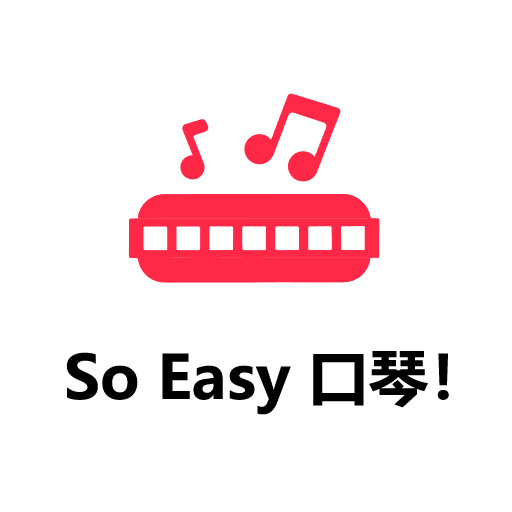
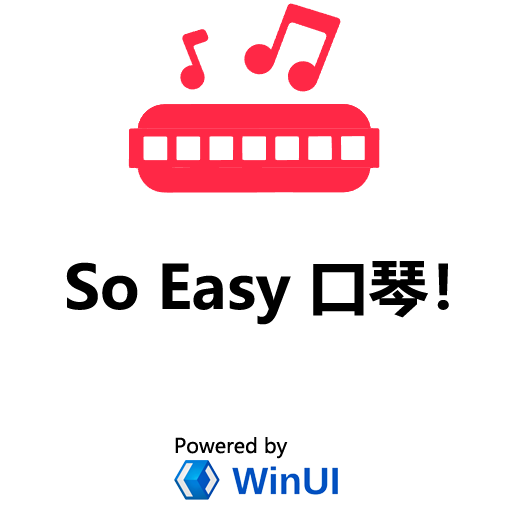
修改EditNoteDialog

diff --git a/Views/EditNoteDialog.xaml b/Views/EditNoteDialog.xaml
@@ -12,57 +12,152 @@
     SecondaryButtonText="取消"
     DefaultButton="Primary">
 
-    <StackPanel>
-        <!--音高-->
-        <ComboBox Header="音高：" 
-                  PlaceholderText="选择音高..."
-                  SelectedItem="{x:Bind ViewModel.Pitch, Mode=TwoWay}" 
-                  HorizontalAlignment="Stretch">
-            <x:String>1</x:String>
-            <x:String>2</x:String>
-            <x:String>3</x:String>
-            <x:String>4</x:String>
-            <x:String>5</x:String>
-            <x:String>6</x:String>
-            <x:String>7</x:String>
-            <!-- 这里可以添加低音、高音等选项 -->
-        </ComboBox>
+    <ScrollViewer MaxHeight="800" VerticalScrollBarVisibility="Auto">
+        <StackPanel Width="500">
+            <!--音符-->
+            <ComboBox Header="音符：" 
+                      PlaceholderText="选择音符..."
+                      SelectedValuePath="Tag"
+                      SelectedValue="{x:Bind ViewModel.Pitch, Mode=TwoWay}"
+                      HorizontalAlignment="Stretch">
+                <ComboBoxItem Content="中音音符１" Tag="1"/>
+                <ComboBoxItem Content="中音音符２" Tag="2"/>
+                <ComboBoxItem Content="中音音符３" Tag="3"/>
+                <ComboBoxItem Content="中音音符４" Tag="4"/>
+                <ComboBoxItem Content="中音音符５" Tag="5"/>
+                <ComboBoxItem Content="中音音符６" Tag="6"/>
+                <ComboBoxItem Content="中音音符７" Tag="7"/>
 
-        <!--时值-->
-        <ComboBox Header="时值：" 
-                  PlaceholderText="选择时值..."
-                  SelectedValuePath="Tag" 
-                  SelectedValue="{x:Bind ViewModel.Duration, Mode=TwoWay}" 
-                  HorizontalAlignment="Stretch" 
-                  Margin="0,10,0,0">
-            <ComboBoxItem Content="全音符 (4)" Tag="4"/>
-            <ComboBoxItem Content="二分音符 (2)" Tag="2"/>
-            <ComboBoxItem Content="四分音符 (1)" Tag="1"/>
-            <ComboBoxItem Content="八分音符 (0.5)" Tag="0.5"/>
-            <ComboBoxItem Content="十六分音符 (0.25)" Tag="0.25"/>
-            <ComboBoxItem Content="三十二分音符 (0.125)" Tag="0.125"/>
-        </ComboBox>
+                <ComboBoxItem Content="低音音符１" Tag="-1"/>
+                <ComboBoxItem Content="低音音符２" Tag="-2"/>
+                <ComboBoxItem Content="低音音符３" Tag="-3"/>
+                <ComboBoxItem Content="低音音符４" Tag="-4"/>
+                <ComboBoxItem Content="低音音符５" Tag="-5"/>
+                <ComboBoxItem Content="低音音符６" Tag="-6"/>
+                <ComboBoxItem Content="低音音符７" Tag="-7"/>
 
-        <!--附点-->
-        <NumberBox Header="附点数量："
-                   PlaceholderText="输入附点数量..."
-                   Value="{x:Bind ViewModel.Dots, Mode=TwoWay}" 
-                   Minimum="0" 
-                   Maximum="3" 
-                   Margin="0,10,0,0"/>
+                <ComboBoxItem Content="倍低音符１" Tag="--1"/>
+                <ComboBoxItem Content="倍低音符２" Tag="--2"/>
+                <ComboBoxItem Content="倍低音符３" Tag="--3"/>
+                <ComboBoxItem Content="倍低音符４" Tag="--4"/>
+                <ComboBoxItem Content="倍低音符５" Tag="--5"/>
+                <ComboBoxItem Content="倍低音符６" Tag="--6"/>
+                <ComboBoxItem Content="倍低音符７" Tag="--7"/>
 
-        <!--歌词-->
-        <TextBox Header="歌词：" 
-                 PlaceholderText="输入歌词..."
-                 Text="{x:Bind ViewModel.Lyrics, Mode=TwoWay}" 
-                 Margin="0,10,0,0"/>
+                <ComboBoxItem Content="超低音符１" Tag="---1"/>
+                <ComboBoxItem Content="超低音符２" Tag="---2"/>
+                <ComboBoxItem Content="超低音符３" Tag="---3"/>
+                <ComboBoxItem Content="超低音符４" Tag="---4"/>
+                <ComboBoxItem Content="超低音符５" Tag="---5"/>
+                <ComboBoxItem Content="超低音符６" Tag="---6"/>
+                <ComboBoxItem Content="超低音符７" Tag="---7"/>
 
-        <!--所属组合-->
-        <ComboBox Header="所属组合"
-                  PlaceholderText="选择组合..."
-                  ItemsSource="{x:Bind ViewModel.Beams, Mode=OneWay}"
-                  SelectedItem="{x:Bind ViewModel.SelectedBeam, Mode=TwoWay}"
-                  HorizontalAlignment="Stretch"
-                  Margin="0,10,0,0"/>
-    </StackPanel>
+                <ComboBoxItem Content="高音音符１" Tag="+1"/>
+                <ComboBoxItem Content="高音音符２" Tag="+2"/>
+                <ComboBoxItem Content="高音音符３" Tag="+3"/>
+                <ComboBoxItem Content="高音音符４" Tag="+4"/>
+                <ComboBoxItem Content="高音音符５" Tag="+5"/>
+                <ComboBoxItem Content="高音音符６" Tag="+6"/>
+                <ComboBoxItem Content="高音音符７" Tag="+7"/>
+
+                <ComboBoxItem Content="倍高音符１" Tag="++1"/>
+                <ComboBoxItem Content="倍高音符２" Tag="++2"/>
+                <ComboBoxItem Content="倍高音符３" Tag="++3"/>
+                <ComboBoxItem Content="倍高音符４" Tag="++4"/>
+                <ComboBoxItem Content="倍高音符５" Tag="++5"/>
+                <ComboBoxItem Content="倍高音符６" Tag="++6"/>
+                <ComboBoxItem Content="倍高音符７" Tag="++7"/>
+
+                <ComboBoxItem Content="超高音符１" Tag="+++1"/>
+                <ComboBoxItem Content="超高音符２" Tag="+++2"/>
+                <ComboBoxItem Content="超高音符３" Tag="+++3"/>
+                <ComboBoxItem Content="超高音符４" Tag="+++4"/>
+                <ComboBoxItem Content="超高音符５" Tag="+++5"/>
+                <ComboBoxItem Content="超高音符６" Tag="+++6"/>
+                <ComboBoxItem Content="超高音符７" Tag="+++7"/>
+
+                <ComboBoxItem Content="休止符０" Tag="0"/>
+
+                <ComboBoxItem Content="噪音符Ｘ" Tag="X"/>
+
+                <ComboBoxItem Content="增时符－" Tag="-"/>
+            </ComboBox>
+
+            <!--时值-->
+            <ComboBox Header="时值：" 
+                      PlaceholderText="选择音符时值..."
+                      SelectedValuePath="Tag" 
+                      SelectedValue="{x:Bind ViewModel.Duration, Mode=TwoWay}" 
+                      HorizontalAlignment="Stretch" 
+                      Margin="0,10,0,0">
+                <ComboBoxItem Content="全音符" Tag="4"/>
+                <ComboBoxItem Content="二分音符" Tag="2"/>
+                <ComboBoxItem Content="四分音符" Tag="1"/>
+                <ComboBoxItem Content="八分音符" Tag="0.5"/>
+                <ComboBoxItem Content="十六分音符" Tag="0.25"/>
+                <ComboBoxItem Content="三十二分音符" Tag="0.125"/>
+            </ComboBox>
+
+            <!--附点-->
+            <NumberBox Header="附点数量："
+                       PlaceholderText="输入附点数量..."
+                       Value="{x:Bind ViewModel.Dots, Mode=TwoWay}" 
+                       Minimum="0" 
+                       Maximum="3" 
+                       Margin="0,10,0,0"/>
+
+            <!--连音线标志-->
+            <ComboBox Header="连音线标志：" 
+                      PlaceholderText="选择连音线标志..."
+                      SelectedValuePath="Tag" 
+                      SelectedValue="{x:Bind ViewModel.Slur, Mode=TwoWay}" 
+                      HorizontalAlignment="Stretch" 
+                      Margin="0,10,0,0">
+                <ComboBoxItem Content="无连音线" Tag="" IsSelected="True"/>
+                <ComboBoxItem Content="开始连音线" Tag="1"/>
+                <ComboBoxItem Content="结束连音线" Tag="0"/>
+            </ComboBox>
+
+            <!--延长号标志-->
+            <ComboBox Header="延长号标志：" 
+                      PlaceholderText="选择延长号标志..."
+                      SelectedValuePath="Tag" 
+                      SelectedValue="{x:Bind ViewModel.Fermata, Mode=TwoWay}" 
+                      HorizontalAlignment="Stretch" 
+                      Margin="0,10,0,0">
+                <ComboBoxItem Content="有延长号" Tag="1"/>
+                <ComboBoxItem Content="无延长号" Tag="0"/>
+            </ComboBox>
+
+            <!--演奏方式-->
+            <ComboBox Header="演奏方式：" 
+                      PlaceholderText="选择演奏方式..."
+                      SelectedItem="{x:Bind ViewModel.Articulation, Mode=TwoWay}"
+                      HorizontalAlignment="Stretch" 
+                      Margin="0,10,0,0">
+                <x:String>倚音</x:String>
+                <x:String>颤音</x:String>
+                <x:String>波音</x:String>
+                <x:String>回音</x:String>
+                <x:String>滑音</x:String>
+                <x:String>琶音</x:String>
+                <x:String>震音</x:String>
+            </ComboBox>
+
+            <!--歌词-->
+            <TextBox Header="歌词：" 
+                     PlaceholderText="输入歌词..."
+                     Text="{x:Bind ViewModel.Lyrics, Mode=TwoWay}" 
+                     Margin="0,10,0,0"/>
+
+            <!--所属组合-->
+            <ComboBox Header="音符组合"
+                      PlaceholderText="选择音符组合..."
+                      ItemsSource="{x:Bind ViewModel.Beams, Mode=OneWay}"
+                      SelectedItem="{x:Bind ViewModel.SelectedBeam, Mode=TwoWay}"
+                      DisplayMemberPath="Name"
+                      HorizontalAlignment="Stretch"
+                      Margin="0,10,0,0"/>
+        </StackPanel>
+    </ScrollViewer>
 </ContentDialog>

diff --git a/Views/EditScorePage.xaml b/Views/EditScorePage.xaml
@@ -226,7 +226,7 @@
                         <TextBox x:Name="Composer"
                                  Text="{x:Bind ViewModel.Composer, Mode=TwoWay, UpdateSourceTrigger=PropertyChanged}"
                                  PlaceholderText="输入作曲人..."
-                                 Header="作曲人："
+                                 Header="作曲："
                                  MaxLength="50"
                                  HorizontalAlignment="Stretch"/>
 
@@ -243,7 +243,7 @@
                         <TextBox x:Name="Lyricist"
                                  Text="{x:Bind ViewModel.Lyricist, Mode=TwoWay, UpdateSourceTrigger=PropertyChanged}"
                                  PlaceholderText="输入作词人..."
-                                 Header="作词人："
+                                 Header="作词："
                                  MaxLength="50"
                                  HorizontalAlignment="Stretch"/>
 

diff --git a/ViewModels/EditNoteViewModel.cs b/ViewModels/EditNoteViewModel.cs
@@ -19,47 +19,50 @@ namespace SEH.ViewModels
         private string _id = Guid.NewGuid().ToString();
 
         /// <summary>
-        /// 音高
+        /// 音符
         /// </summary>
+        [Required(ErrorMessage = "音符不能为空！")]
         [ObservableProperty]
         private string _pitch = "1"; // 默认中音1
 
         /// <summary>
         /// 时值
         /// </summary>
-        [ObservableProperty]
+        [Required(ErrorMessage = "时值不能为空！")]
         [Range(0.125, 4, ErrorMessage = "时值必须在0.125到4之间")]
-        private float _duration = 1; // 默认四分音符
+        [ObservableProperty]
+        private string _duration = "1"; // 默认四分音符
 
         /// <summary>
         /// 附点数量
         /// </summary>
+        [Required(ErrorMessage = "附点数量不能为空！")]
         [ObservableProperty]
-        private int _dots = 0;
+        private string _dots = "0";
 
         /// <summary>
         /// 连音线标记，如：1-开始，0-表示结束
         /// </summary>
         [ObservableProperty]
-        private int? _slur = null;
+        private string _slur = "";
 
         /// <summary>
         /// 演奏方法
         /// </summary>
         [ObservableProperty]
-        private string? _articulation = null;
+        private string _articulation = "";
 
         /// <summary>
         /// 延长号标记，如：1-有，0-无
         /// </summary>
         [ObservableProperty]
-        private int _fermata = 0;
+        private string _fermata = "0";
 
         /// <summary>
         /// 歌词
         /// </summary>
         [ObservableProperty]
-        private string? _lyrics = null;
+        private string _lyrics = "";
 
         /// <summary>
         /// 组合集合
@@ -102,11 +105,11 @@ namespace SEH.ViewModels
             {
                 Id = note.Id;
                 Pitch = note.Pitch;
-                Duration = note.Duration;
-                Dots = note.Dots;
-                Slur = note.Slur;
+                Duration = note.Duration.ToString();
+                Dots = note.Dots.ToString();
+                Slur = note.Slur == null ? "" : note.Slur.ToString();
                 Articulation = note.Articulation;
-                Fermata = note.Fermata;
+                Fermata = note.Fermata.ToString();
                 Lyrics = note.Lyrics;
                 SelectedBeam = note.Beam;
             }
@@ -118,11 +121,11 @@ namespace SEH.ViewModels
             {
                 Id = this.Id,
                 Pitch = this.Pitch,
-                Duration = this.Duration,
-                Dots = this.Dots,
-                Slur = this.Slur,
+                Duration = float.Parse(this.Duration),
+                Dots = int.Parse(this.Dots),
+                Slur = string.IsNullOrWhiteSpace(this.Slur) ? null : int.Parse(this.Slur),
                 Articulation = this.Articulation,
-                Fermata = this.Fermata,
+                Fermata = int.Parse(this.Fermata),
                 Lyrics = this.Lyrics,
                 BeamId = SelectedBeam?.Id,
                 Beam = SelectedBeam,

diff --git a/ViewModels/EditScoreViewModel.cs b/ViewModels/EditScoreViewModel.cs
@@ -8,7 +8,6 @@ using SEH.Models;
 using SEH.Services.Interfaces;
 using SEH.Views;
 using System;
-using System.Collections.Generic;
 using System.Collections.ObjectModel;
 using System.ComponentModel.DataAnnotations;
 using System.Linq;
@@ -406,7 +405,13 @@ namespace SEH.ViewModels
             {
                 return;
             }
-            _score.Lines.RemoveAt(_score.Lines.Count - 1);
+            if (_line == null)
+            {
+                return;
+            }
+
+            _score.Lines.Remove(_line);
+
             if (_score.Lines.Count == 0)
             {
                 _score.Lines = null;
@@ -487,7 +492,13 @@ namespace SEH.ViewModels
             {
                 return;
             }
-            _line.Measures.RemoveAt(_line.Measures.Count - 1);
+            if (_measure == null)
+            {
+                return;
+            }
+
+            _line.Measures.Remove(_measure);
+
             if (_line.Measures.Count == 0)
             {
                 _line.Measures = null;
@@ -610,8 +621,13 @@ namespace SEH.ViewModels
             {
                 return;
             }
+            if (_beam == null)
+            {
+                return;
+            }
 
-            if (_beam != null && _measure.Notes != null)
+            //清除组合中的音符
+            if (_measure.Notes != null)
             {
                 foreach (var note in _measure.Notes)
                 {
@@ -622,7 +638,8 @@ namespace SEH.ViewModels
                 }
             }
 
-            _measure.Beams.RemoveAt(_measure.Beams.Count - 1);
+            _measure.Beams.Remove(_beam);
+
             if (_measure.Beams.Count == 0)
             {
                 _measure.Beams = null;

diff --git a/Models/Note.cs b/Models/Note.cs
@@ -48,6 +48,9 @@ namespace SEH.Models
         /// 高音：+1、+2、+3、+4、+5、+6、+7
         /// 倍高：++1、++2、++3、++4、++5、++6、++7
         /// 超高：+++1、+++2、+++3、+++4、+++5、+++6、+++7
+        /// 休止符：0
+        /// 噪音符：X
+        /// 增时符：-
         /// </summary>
         [Column("pitch")]
         public string Pitch { get; set; }